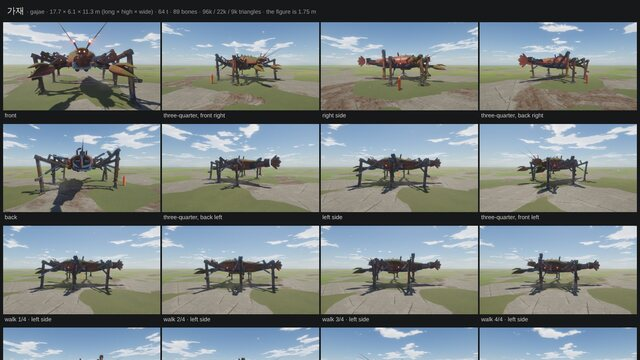
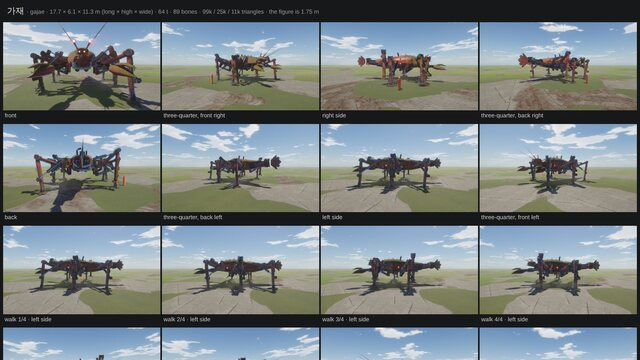
machine-wilds: brief rows and lessons for the casings, the in-page film and the render's cost; cast thumbnails
Claude-Session: https://claude.ai/code/session_01LWivNf8Y6UtuVJbT9XD7sv

diff --git a/docs/machine-wilds/demo/starter/index.html b/docs/machine-wilds/demo/starter/index.html
@@ -1072,6 +1072,8 @@ float fogDepth(vec3 ro, vec3 rd, float t){
     G.tierName = G.safe ? 'low' : LR.TIERS[want] ? want : guess; G.auto = !LR.TIERS[want] && !G.safe;
     G.tier = Object.assign({}, LR.TIERS[G.tierName]);
     if (LR.qn('mat', 0)) G.tier.mat = LR.qn('mat', 512);
+    // ?tierx=shadow:1024,cascades:2 — single numbers of the tier, overridden (a film on a machine without a GPU: what costs most, cut alone)
+    for (const kv of (LR.q('tierx', '') || '').split(',')) { const [k, v] = kv.split(':'); if (k in G.tier && v !== undefined && !isNaN(+v)) G.tier[k] = +v; }
     G.hdrType = G.halfFloat ? T.HalfFloatType : T.UnsignedByteType;
     return G;
   };
@@ -4622,11 +4624,18 @@ void main(){
 //   k.fins(c, dir, n, w, h, pitch, { up })        a stack of cooling fins
 //   k.boot(p, dir, r, len, n)                     a rubber gaiter
 //   k.stripes(c, normal, w, h, n, { up })         warning bars, yellow and black, what is left of them
+//   k.digits('07', c, normal, h, { up, role })   a number stencilled on a plate, h tall, read from in front
 //   k.gauge(c, normal, r)                         a dial
 //   k.stack(a, b, r)                              an exhaust stack with a rain cap
 //   k.dish(c, dir, r)                             an antenna dish on a stalk
 {
   const M = LR.mech, T = THREE, V = M.v, TAU = Math.PI * 2, K = M.Kit.prototype;
+  // k.digits('07', c, normal, h, { up, role, t })   stencilled figures h tall on a plate, read from in front of it (seven strokes a figure)
+  K.digits = function (str, c, nrm, h, o = {}) { const k = this, t = o.t || h * 0.035, w = h * 0.5, gap = h * 0.24, s = h * 0.13, n = str.length, SEG = { 0: 'abcdef', 1: 'bc', 2: 'abged', 3: 'abgcd', 4: 'fgbc', 5: 'afgcd', 6: 'afgedc', 7: 'abc', 8: 'abcdefg', 9: 'abfgcd', '-': 'g' };
+    return k.along(c, nrm, (g) => { k.mat(o.role || 'dark'); for (let i = 0; i < n; i++) { const x0 = -(i - (n - 1) / 2) * (w + gap), on = SEG[str[i]] || '';      /* (the frame's +X is the reader's left) */
+        const H = (z) => g.box(x0, t * 0.5, z, w - s * 0.7, t, s, { soft: 0.1 }), U = (x, z) => g.box(x0 - x, t * 0.5, z, s, t, h * 0.5 - s * 0.7, { soft: 0.1 });
+        if (on.includes('a')) H(h * 0.5 - s * 0.5); if (on.includes('g')) H(0); if (on.includes('d')) H(-h * 0.5 + s * 0.5);
+        if (on.includes('f')) U(-w * 0.5 + s * 0.5, h * 0.25); if (on.includes('b')) U(w * 0.5 - s * 0.5, h * 0.25); if (on.includes('e')) U(-w * 0.5 + s * 0.5, -h * 0.25); if (on.includes('c')) U(w * 0.5 - s * 0.5, -h * 0.25); } }, o.up || [0, 1, 0]); };
   K.along = function (p, dir, fn, up) { const y = V.norm(dir); let z = up ? V.sub(up, V.mul(y, V.dot(up, y))) : null; if (!z || V.len(z) < 0.2) { const a = Math.abs(y[1]) < 0.9 ? [0, 1, 0] : [1, 0, 0]; z = V.sub(a, V.mul(y, V.dot(a, y))); } z = V.norm(z); const x = V.cross(y, z);
     this.g.push(new T.Matrix4().set(x[0], y[0], z[0], p[0], x[1], y[1], z[1], p[1], x[2], y[2], z[2], p[2], 0, 0, 0, 1)); fn(this.g, this); this.g.pop(); return this; };
   const dirAt = (pts, i) => V.norm(V.sub(pts[Math.min(i + 1, pts.length - 1)], pts[Math.max(i - 1, 0)]));
@@ -8227,6 +8236,69 @@ void main(){
 }
 
 
+// ── lib/89_cine.js ──
+// machine-wilds · 89_cine — a film played in the page.  Shots with a free camera (not the walker's eye) and the walker's body
+// driven by keys, frame by frame; each shot sets its own hour, weather and machines' clock.  The same shots play live
+// (?film=1, or realm.cine.play()) and are stepped offline to draw a film's frames (a realm's trailer.mjs).
+//   LR.start({ cine: (h) => ({ fps: 24, order: ['A', 'B'], range: { A: [0, 144] }, title: { big, small, line }, shots: {
+//     A: { dur, tod, weather, T0, start: [x, z, yaw°], pitch, tod1 (the hour at the shot's end: time passes), view: 'first' | 'top' (the
+//          walker's own camera instead of cam), zoom, rate (how fast the machines' clock runs: 3 for time passing), act(s, keys, state),
+//          cam(s) → [[x, y, z], [look x, y, z], fov°] } } }) })
+//   h: { LR, P (the walker), M (the machines), dt(), ease, lerp, damp(a, b, rate), at(ahead, right, up) (a point by the body),
+//        low(point, height over the ground), floor(x, z, y), goTo(x, z, keys, run) (steer the body there; true when there),
+//        U(name) (a machine), pose(unit, t) → { p, h, fw, rt }, rel(pose, ahead, right) → [x, z], yawOf(pose) }
+// A camera inside a lamp's cone sees the cone's edge as a hard line across the picture: keep cameras out of the beams.
+(() => {
+  const C = (LR.cine = { on: false, ready: false });
+  let make = null, cam = null, def = null, cur = null, name = '', dt = 1 / 24, clock = 0, f = 0, live = null;
+  C.init = (fn, camera) => { make = fn || null; cam = camera; C.has = !!fn; };
+  const ensure = () => { if (def || !make) return !!def; const P = LR.player, M = LR.mech;
+    const ease = (x) => { x = Math.max(0, Math.min(1, x)); return x * x * (3 - 2 * x); }, lerp = (a, b, k) => a + (b - a) * k, wrap = (a) => Math.atan2(Math.sin(a), Math.cos(a));
+    const F = () => [Math.sin(P.yaw), -Math.cos(P.yaw)], Rt = () => [Math.cos(P.yaw), Math.sin(P.yaw)], floor = (x, z, y) => P.groundAt(x, z, y === undefined ? P.y + 1.2 : y).y;
+    const at = (a, r, up) => { const u = F(), v = Rt(); return [P.x + u[0] * a + v[0] * r, P.y + up, P.z + u[1] * a + v[1] * r]; };
+    const low = (p, h) => { p[1] = floor(p[0], p[2], P.y + 3) + h; return p; };
+    const goTo = (tx, tz, K, run) => { const dx = tx - P.x, dz = tz - P.z, d = Math.hypot(dx, dz); if (d < 0.45) return true; P.yaw += wrap(Math.atan2(dx, -dz) - P.yaw) * Math.min(1, 5 * dt); K.KeyW = true; if (run) K.ShiftLeft = true; return false; };
+    const U = (n) => M.units.find((u) => u.name === n), pose = (u, t) => { const c = M.cmd(u, t), h = c.h; return { p: c.body.p, h, fw: [Math.cos(h), Math.sin(h)], rt: [-Math.sin(h), Math.cos(h)] }; };
+    const rel = (q, a, r) => [q.p[0] + q.fw[0] * a + q.rt[0] * r, q.p[2] + q.fw[1] * a + q.rt[1] * r], yawOf = (q) => (q.h * 180) / Math.PI + 90;
+    def = make({ LR, P, M, dt: () => dt, ease, lerp, damp: (a, b, k) => LR.damp(a, b, k, dt), at, low, floor, goTo, U, pose, rel, yawOf });
+    C.fps = def.fps || 24; C.order = def.order || Object.keys(def.shots); C.range = {}; for (const n in def.shots) C.range[n] = (def.range && def.range[n]) || [0, Math.round(def.shots[n].dur * C.fps)]; C.title = def.title || null; C.ready = true; return true; };
+  const aim = (c, roll) => { const p = c[0], q = c[1], dx = q[0] - p[0], dy = q[1] - p[1], dz = q[2] - p[2]; cam.position.set(p[0], p[1], p[2]); cam.rotation.set(Math.atan2(dy, Math.hypot(dx, dz)), -Math.atan2(dx, -dz), roll || 0); if (Math.abs(cam.fov - c[2]) > 0.01) { cam.fov = c[2]; cam.updateProjectionMatrix(); } };
+  const hour = (s) => { if (cur.tod1 !== undefined) LR.wx.snap({ tod: cur.tod + (cur.tod1 - cur.tod) * Math.max(0, Math.min(1, s / cur.dur)) }); };
+  const start = (n) => { const P = LR.player; cur = def.shots[n]; name = n; cur.st = {}; LR.wx.set({ auto: false }); LR.wx.snap({ tod: cur.tod, weather: cur.weather }); P.stopTour(); P.place(cur.start[0], cur.start[1], cur.start[2]); P.pitch = cur.pitch || 0; P.setView(cur.view || 'third'); if (cur.zoom) P.zoom[P.view] = cur.zoom; if (cur.view && LR.fit) { LR.fit(); P.fovSet = false; } P.keys = {}; clock = cur.T0 - 1.0; f = 0; };
+  // one frame of the shot at the film's own rate: the hand, the body, the camera, the world — drawn or not
+  const step = (draw) => { const P = LR.player, s = f / C.fps, K = {}; cur.act(s, K, cur.st); P.keys = K; P.update(dt, cam); hour(s); if (!cur.view) aim(cur.cam(s), Math.sin(s * 0.9) * 0.003);
+    clock += dt * (cur.rate || 1); LR.wx.update(dt, clock); LR.emit('frame', clock, dt, cam); if (draw) LR.render.draw(cam, clock, dt); f++; return s; };
+  const settle = () => { const P = LR.player; for (let i = 0; i < C.fps; i++) { P.update(dt, cam); clock += dt; LR.wx.update(dt, clock); LR.emit('frame', clock, dt, cam); } };      /* a second of standing before the shot: the body settles, the machines are where the clock says */
+  // ── offline: a script steps the shots and saves what is drawn ──
+  C.names = () => (ensure() ? Object.keys(def.shots) : []); C.frames = (n) => (ensure(), Math.round(def.shots[n].dur * C.fps)); C.dur = (n) => (ensure(), def.shots[n].dur); C.T0 = (n) => (ensure(), def.shots[n].T0);
+  C.info = () => (ensure() ? { fps: C.fps, order: C.order, range: C.range, title: C.title } : null);
+  C.begin = (n, draw) => { ensure(); dt = 1 / C.fps; start(n); settle(); LR.render.histValid = false;
+    if (draw) for (let i = 0; i < 6; i++) { if (!cur.view) aim(cur.cam(0)); LR.emit('frame', clock, 1e-4, cam); LR.render.draw(cam, clock, 1e-4); } };
+  C.tick = (draw) => { const P = LR.player, s = step(draw); return { s: +s.toFixed(2), x: +P.x.toFixed(1), y: +P.y.toFixed(1), z: +P.z.toFixed(1), pitch: +P.pitch.toFixed(2), cam: [cam.position.x, cam.position.y, cam.position.z].map((v) => +v.toFixed(1)), there: cur.st.there || 0, air: !!P.air }; };
+  C.state = () => ({ on: C.on, shot: name, index: live ? live.i : -1, s: live ? +live.s.toFixed(2) : f / (C.fps || 24), title: !!(live && live.tail >= 0) });
+  C.time = () => clock; C.camNow = () => [cam.position.x, cam.position.y, cam.position.z, cam.rotation.y];
+  // ── live: the page plays the film itself; Esc (or a click on "walk") hands the walker back ──
+  let veil = null, hint = null, card = null;
+  const dom = () => { if (veil) return; const mk = (css, html) => { const e = document.createElement('div'); e.style.cssText = css; if (html) e.innerHTML = html; document.body.appendChild(e); return e; };
+    veil = mk('position:fixed;inset:0;background:#07090b;opacity:1;transition:opacity .9s;pointer-events:none;z-index:40');
+    const t = C.title || {}; card = mk('position:fixed;inset:0;display:flex;flex-direction:column;align-items:center;justify-content:center;color:#e9e4d6;font-family:system-ui,sans-serif;opacity:0;transition:opacity 1s;pointer-events:none;z-index:41;text-align:center',
+      `<div style="font-size:min(9vw,64px);font-weight:700;letter-spacing:.14em">${t.big || ''}</div><div style="width:120px;height:2px;background:#c8532e;margin:22px 0 18px"></div><div style="font-size:min(3.4vw,20px);letter-spacing:.42em;opacity:.78">${t.small || ''}</div><div style="font-size:min(2.8vw,15px);letter-spacing:.2em;opacity:.5;margin-top:14px">${t.line || ''}</div>`);
+    hint = mk('position:fixed;right:14px;bottom:12px;z-index:42;font:12px system-ui,sans-serif;color:#e9e4d6;opacity:.55;cursor:pointer;padding:6px 10px;border:1px solid rgba(233,228,214,.35);border-radius:6px;background:rgba(7,9,11,.35)', t.skip || 'Esc · walk');
+    hint.addEventListener('click', () => C.stop()); window.addEventListener('keydown', (e) => { if (C.on && e.code === 'Escape') C.stop(); }); };
+  const cut = (i) => { live.i = i; const n = C.order[i]; dt = 1 / C.fps; start(n); settle(); for (let k = 0; k < C.range[n][0]; k++) step(false); live.s = f / C.fps; live.end = C.range[n][1] / C.fps; LR.render.histValid = false; };
+  C.play = () => { if (!ensure() || !C.order.length) return false; dom(); const hud = document.getElementById('hud'); if (hud) { C.hudWas = hud.style.display; hud.style.display = 'none'; } hint.style.display = ''; card.style.opacity = 0; C.on = true; live = { i: 0, s: 0, end: 0, tail: -1 }; C.auto = LR.wx.auto; cut(0); requestAnimationFrame(() => { veil.style.opacity = 0; }); return true; };
+  C.stop = () => { if (!C.on) return; C.on = false; const P = LR.player, sp = LR.world.spawn, hud = document.getElementById('hud'); if (hud) hud.style.display = C.hudWas || ''; if (hint) hint.style.display = 'none'; if (card) card.style.opacity = 0; if (veil) veil.style.opacity = 0;
+    P.keys = {}; P.place(sp.x, sp.z, sp.yaw || 0); P.setView('third'); if (LR.fit) LR.fit(); const w = (LR.cfg && LR.cfg.weather) || {}; LR.wx.snap({ weather: w.weather || 'clear', tod: w.tod === undefined ? 16.6 : w.tod }); if (C.auto) LR.wx.set({ auto: true }); LR.render.histValid = false; LR.emit('cine', false); };
+  // called by the page's loop once a frame while the film is on: returns the machines' clock for this frame
+  C.live = (rdt, time) => { if (!C.on || !cur) return time; const P = LR.player; dt = Math.min(rdt, 1 / 12);
+    if (live.tail >= 0) { live.tail += rdt; if (live.tail > 5.2) C.stop(); return clock; }      /* the title card, then the walker is handed the world */
+    live.s += dt; f = Math.round(live.s * C.fps);
+    if (live.s >= live.end) { if (live.i + 1 < C.order.length) cut(live.i + 1); else { live.tail = 0; veil.style.opacity = 1; card.style.opacity = 1; return clock; } }
+    if (live.i === C.order.length - 1 && live.end - live.s < 1.2) veil.style.opacity = 1;
+    const K = {}; cur.act(live.s, K, cur.st); P.keys = K; hour(live.s); if (!cur.view) aim(cur.cam(live.s), Math.sin(live.s * 0.9) * 0.003); clock += dt * (cur.rate || 1); return clock; };
+})();
+
+
 // ── lib/90_app.js ──
 // machine-wilds · 90_app — boot, the loop, the render API.  A realm's last source calls LR.start({ … }).
 {
@@ -8288,6 +8360,7 @@ void main(){
         return info();
       };
       window.realm = { canvas, shot, info, place, LR };
+      LR.cine.init(cfg.cine, cam); window.realm.cine = LR.cine;      // a film of shots played in the page (?film=1) or stepped by a script (89_cine)
       // film: the tour with the automatic round, one frame per call (render.mjs --film)
       let fdt = 1 / 30;
       window.realm.filmStart = (fps = 30) => { fdt = 1 / fps; time = 0; P.place(sp.x, sp.z, sp.yaw || 0); P.startTour(); if (cfg.round) LR.wx.round = cfg.round; LR.wx.snap({ weather: (cfg.weather && cfg.weather.weather) || 'clear', tod: (cfg.weather && cfg.weather.tod) || 16.6 }); LR.wx.set({ auto: true }); LR.render.histValid = false; LR.render.film = true; };
@@ -8320,8 +8393,8 @@ void main(){
       if (LR.q('auto', wx0.auto === false ? '0' : '1') !== '0' && LR.q('wx') === undefined && LR.q('tod') === undefined) LR.wx.set({ auto: true });
       P.bind(canvas); if (P.tour && LR.q('tour', '1') !== '0') P.startTour(); if (LR.q('eye', '')) P.setView(LR.q('eye'));      // ?eye=third | top: start in that view
       let last = performance.now();
-      const loop = (now) => { requestAnimationFrame(loop); const dt = Math.min(0.1, Math.max(0.0005, (now - last) / 1000)); last = now; if (document.hidden) return; time += dt; LR.emit('input', dt, cam); LR.wx.update(dt, time); LR.emit('frame', time, dt, cam); LR.render.draw(cam, time, dt); LR.emit('after', time, dt); };
-      LR.progress(1, ''); document.getElementById('veil').classList.add('gone'); window.READY = true; LR.readyAt = performance.now(); requestAnimationFrame(loop);
+      const loop = (now) => { requestAnimationFrame(loop); const dt = Math.min(0.1, Math.max(0.0005, (now - last) / 1000)); last = now; if (document.hidden) return; time += dt; LR.emit('input', dt, cam); if (LR.cine.on) time = LR.cine.live(dt, time); LR.wx.update(dt, time); LR.emit('frame', time, dt, cam); LR.render.draw(cam, time, dt); LR.emit('after', time, dt); };
+      LR.progress(1, ''); document.getElementById('veil').classList.add('gone'); window.READY = true; LR.readyAt = performance.now(); if (LR.cine.has && LR.q('film', '0') === '1') LR.cine.play(); requestAnimationFrame(loop);
     } catch (e) { if (e && e.trouble) LR.trouble(e.trouble, cfg); else LR.fail(e.stack || e.message || e); }
   };
   // ── when the graphics will not start, or stop ────────────────────────────────────────────────────────────────────

diff --git a/machine-wilds/examples/iron-valley/BRIEF.md b/machine-wilds/examples/iron-valley/BRIEF.md
@@ -33,11 +33,11 @@ east) · steep: the north bank (20–30°, crags), the bench edges · level: the
 | kind | for | size · tonnes | legs | cycle · duty · stride · lift | silhouette | idle · move | lamps | how many · where |
 |---|---|---|---|---|---|---|---|---|
 | 두루미 crane | a watcher: it walks the valley and looks | 24 × 24.6 × 8.7 m · 86 t | 4, heron legs of three segments (front knees forward, hind knees back) | 6.4 s · 0.78 · 5.6 m · 1.9 m | a keel under three pale shells, a ladder neck, a head like a bird's with a long bill, a whip mast on a counterweight boom | breathes, the head sweeps 16° · **survey**: the neck dips, rises 22° over the mist, the head turns 56° left and 50° right with its light up, comes down past rest | one cool white search light (8° cone, 170 m), two cyan eyes, amber running lights, red beacons on tail and mast | 2 on the round (893 s a lap, 330 s apart); they stand at the viaduct gap and on the shelf south of the hall |
-| 등짐 porter | a carrier: it takes loads between the yard and nowhere | 12 × 11 × 14.6 m · 38 t | 6, insect legs (a turret, an arm, femur and tibia; knees above the bed) | 3.6 s · 0.62 · 3.4 m · 1.1 m, tripod | a flat bed, a cage of girders holding a container, a tank and crates gone to moss, a visor cab | breathes, its radar turns · **kneel**: rises a little, folds until the bed is 1.7 m lower, waits, stands past its height | two amber eyes (14° cones, 70 m), a red tail light | 3 in a string on the bank way, 42 s apart (so each has left the yard before the next kneels); they kneel at the yard |
+| 등짐 porter | a carrier: it takes loads between the yard and nowhere | 12 × 11 × 14.6 m · 38 t | 6, insect legs in sand-coloured casings with yellow housings (a turret, an arm, femur and tibia; knees above the bed) | 3.6 s · 0.62 · 3.4 m · 1.1 m, tripod | a flat bed, a cage of girders holding a container, a tank and crates gone to moss, a visor cab | breathes, its radar turns · **kneel**: rises a little, folds until the bed is 1.7 m lower, waits, stands past its height | two amber eyes (14° cones, 70 m), a red tail light | 3 in a string on the bank way, 42 s apart (so each has left the yard before the next kneels); they kneel at the yard |
 | 마루 ridge | a relay station that walks its line | 66 × 73 × 33 m · 5200 t | 8, two segments boxed in cream plate with a yellow housing over every joint and a square pad under each foot (`casing`), cylinders half a metre thick | 15 s · 0.68 · 15 m · 3.4 m, two groups of four | a street-long deck of box girders (fascia panels in yellow and cream, what is left of them) carrying a three-step concrete station with rows of windows, cream tanks, a yellow jib long stuck, a landing stage cantilevered off the bow quarter, cables slung from hip to hip, a lattice mast; trees on the deck and the roofs; moss and brush on every flat | breathes 30 cm, its prow turns · **call**: sinks, rises 1.5 m with every light up and sounds, comes down past rest | two great warm eyes under the prow (10° cones, 360 m), lit windows, red corner lights, amber lights under the deck | 1 on the rim (1265 s a lap); it calls on the western rise |
 | 솔개 kite | the valley's eyes: a skein that circles and looks down | 9.4 m span · 0.9 t | none — two-part wings on a keel, a fan tail | 14 m/s (10–18 with the climb) · a beat every 1.15 s in bouts of nine seconds, gliding between · banks to 52° | a keel with a pale back shell, long narrow wings of ribs and plate with pale tips, a forked tail, a head that hangs and looks down | rides its own beat by 0.3 m · no halts | one eye, a narrow pale-blue beam straight down into the mist; a red point at the tail | 5, in a string on the sky line, two seconds apart |
-| 자라 turtle | a tank that walks: it carries what the valley's machines run on, and nothing hurries it | 18.2 × 7.1 × 14.5 m · 150 t | 4, sprawled insect legs (a turret and an arm out from under the rim, femur 3.5 m, tibia 4.3 m; knees outside the shell) | 7.0 s · 0.8 · 2.5 m · 0.65 m, four-beat | a dome of pale plate the width of a house with a rust rim, three rows of bolted scutes and mats of moss; a flat dark hull under it with tanks slung below; a blunt head on a short neck; a stub of a tail | breathes 10 cm every 6.7 s, the head sweeps 20° · **tuck**: rises a hand, sinks 0.9 m onto its legs with the neck drawn down and its lights low, waits six seconds, stands past its height | two amber eyes (13° cones, 80 m), six amber lights under the rim, a red tail light | 2: one on the east round (301 s a lap; it tucks beside the brook), one standing on the tarn's west shore |
-| 가재 crayfish | the valley's monster: it works the brook and nothing else comes near | 17.7 × 6.1 × 11.3 m · 64 t | 8, insect legs (femur 3.2 m, tibia 4.0 m) in two groups of four | 4.4 s · 0.68 · 3.2 m · 1.0 m | overlapping plates the red of old oxide from a spike of a snout to a jointed tail with a fan of blades; two claws carried low in front, each a hand with a fixed blade and one held open over it; two whip feelers; eyes on stalks | breathes 8 cm, the head sweeps 34°, claws, feelers and tail lag behind the body · **rear**: dips at the front, throws its fore end up 12° with every lamp at 1.5 × and sounds, holds four seconds, comes down past level | two red eyes on stalks (12° cones, 90 m), six red lights along the plates | 1 on the brook way (328 s a lap); it rears west of the viaduct, a third of the way round |
+| 자라 turtle | a tank that walks: it carries what the valley's machines run on, and nothing hurries it | 18.2 × 7.1 × 14.5 m · 150 t | 4, sprawled insect legs boxed in grey-green plate with ochre housings (`casing`; a turret and an arm out from under the rim, femur 3.5 m, tibia 4.3 m; knees outside the shell); its number, 12, on the rim | 7.0 s · 0.8 · 2.5 m · 0.65 m, four-beat | a dome of pale plate the width of a house with a rust rim, three rows of bolted scutes and mats of moss; a flat dark hull under it with tanks slung below; a blunt head on a short neck; a stub of a tail | breathes 10 cm every 6.7 s, the head sweeps 20° · **tuck**: rises a hand, sinks 0.9 m onto its legs with the neck drawn down and its lights low, waits six seconds, stands past its height | two amber eyes (13° cones, 80 m), six amber lights under the rim, a red tail light | 2: one on the east round (301 s a lap; it tucks beside the brook), one standing on the tarn's west shore |
+| 가재 crayfish | the valley's monster: it works the brook and nothing else comes near | 17.7 × 6.1 × 11.3 m · 64 t | 8, insect legs in oxide-red casings (femur 3.2 m, tibia 4.0 m) in two groups of four | 4.4 s · 0.68 · 3.2 m · 1.0 m | overlapping plates the red of old oxide from a spike of a snout to a jointed tail with a fan of blades; two claws carried low in front, each a hand with a fixed blade and one held open over it; two whip feelers; eyes on stalks | breathes 8 cm, the head sweeps 34°, claws, feelers and tail lag behind the body · **rear**: dips at the front, throws its fore end up 12° with every lamp at 1.5 × and sounds, holds four seconds, comes down past level | two red eyes on stalks (12° cones, 90 m), six red lights along the plates | 1 on the brook way (328 s a lap); it rears west of the viaduct, a third of the way round |
 | 공벌레 woodlouse | sweepers: a file that keeps the shelf's track clear | 4.2 × 1.7 × 2.8 m · 1.6 t | 6, insect legs under the skirt (0.7 + 0.86 m), tripod | 1.25 s · 0.62 · 0.75 m · 0.16 m (swing clearance 4 cm: its own size) | seven arches of rust plate from a closed nose to a closed tail, two of them pale (replaced), over a hull no bigger than a bath; two feelers | breathes, the head looks about · **duck**: lifts a little, drops 10 cm with its head down and its lamps low, comes back past rest | two small amber eyes (20° cones, 16 m), a red point at the tail | 4 in file on the shelf way, five cycles (5.3 m) apart; they stop together and duck together |
 | 물떼새 plover | the walker's own body: a scout that goes where the keys send it | 1.8 × 1.9 m (2.5 with its whip) · 0.3 t | 2, heron legs of three segments (a rotary hip, cylinders at knee and ankle) | a step every 0.25 s at a walk (2.5 m/s), a run with both feet in the air half the time (5.8 m/s), no way: it steps as it goes | a pale pod with an ochre band between two hips, a counterweight boom, a short neck, a head that is mostly lamp, a bedroll and a whip aerial | breath 23 mm · hop: gathers 7 cm, gives 4 cm; a fall gives more | a warm torch from the head (B), a red point on the boom | 1, where the walk starts |
 

diff --git a/machine-wilds/references/LESSONS.md b/machine-wilds/references/LESSONS.md
@@ -154,6 +154,20 @@ was learned putting scans into it (scanned-realm), then the engine's own list (l
   light. A reference is for what is missing, never for the design: the relic is still this valley's walking relay
   station. Water lying on the floor with the machines in it, vines on the ruins and lettering are still to do.
 
+- **"Make the film something the page plays, and make the video from that."** → A film script outside the page (a
+  browser driven frame by frame) cannot be watched; the same shots as data in the realm can be both played and stepped. →
+  `lib/89_cine.js`: shots `{ dur, tod, weather, T0, start, act, cam }` in the realm's source, `?film=1` plays them at the
+  page's own frame rate, a script steps them at 24 a second and saves what is drawn. One definition, two ways through it —
+  and the live way was only trusted after it was driven through every cut in one page (28 shots, the title, the hand-over).
+- **Half of a frame was the shadow maps.** → Without a GPU a 960 × 540 frame took 8.7 s; a 640 × 360 one, 7.7 s. Not the
+  pixels, then. Timed with one number of the tier changed at a time (`?tierx=`): shadow maps at 1024 instead of 2048 → 4.1 s,
+  and no one could tell the two pictures apart side by side; GI, reflections and AO together → 0.3 s. Measure before
+  cutting what shows. (And `gl.finish()` does not wait in this browser: time a frame by reading one pixel back.)
+- **Three key frames a shot, before three hours of render.** → Of 29 shots laid out blind from the gym's numbers, eight were
+  wrong in ways only a picture shows: a rock in front of the lookout, a camera inside a bush, a crane hidden behind a hall,
+  a body below the frame, a walker facing away from what it had come to see. One was dropped; none cost more than a minute
+  to find.
+
 ## Scans in the engine (scanned-realm)
 ## Scans
 
